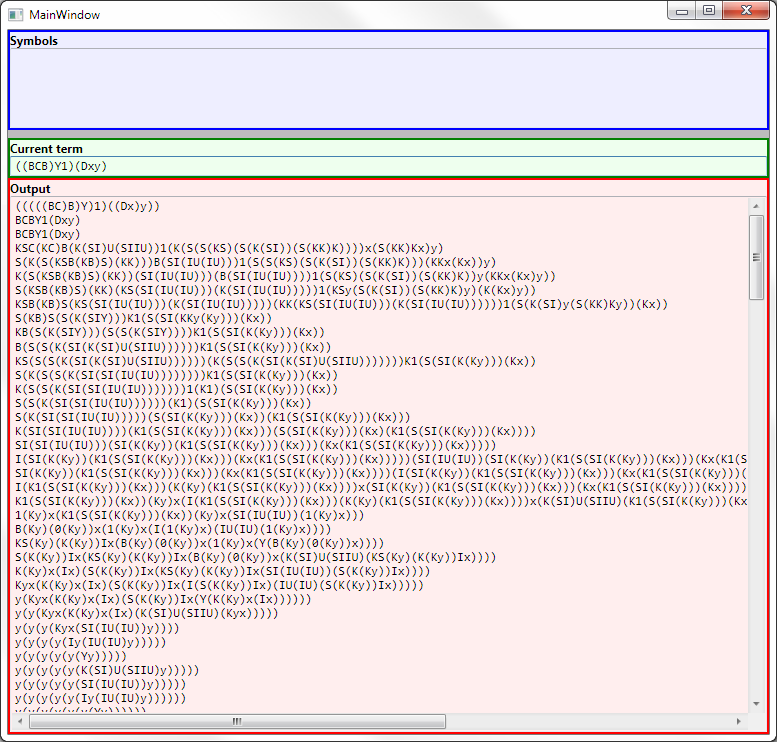
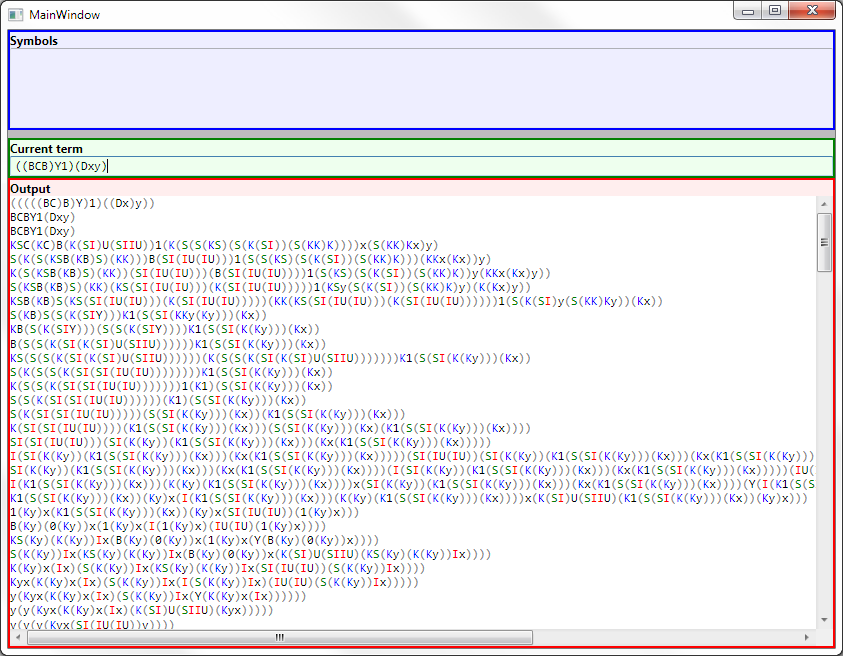
Managed to get half decent syntax highlighting for the output.
Layered four different TextBlocks with different font colors and transparent backgrounds.

diff --git a/WPF_FrontEnd/MainWindow.xaml b/WPF_FrontEnd/MainWindow.xaml
@@ -1,6 +1,7 @@
 <Window x:Class="WPF_FrontEnd.MainWindow"
         xmlns="http://schemas.microsoft.com/winfx/2006/xaml/presentation"
         xmlns:x="http://schemas.microsoft.com/winfx/2006/xaml"
+        xmlns:ns="clr-namespace:WPF_FrontEnd"
         Title="MainWindow" Height="350" Width="525">
     <Grid>
         <Grid.RowDefinitions>
@@ -51,10 +52,11 @@
                     <RowDefinition Height="*" />
                 </Grid.RowDefinitions>
                 <TextBlock Grid.Row="0" Text="Output" FontWeight="Bold" Background="#FFffeeee"/>
-                <TextBox Grid.Row="1" Name="Output"
+                <ns:ColoredCombinatorTextBlock Grid.Row="1" x:Name="Output"/>
+                <!--TextBox Grid.Row="1" Name="Output"
                          HorizontalScrollBarVisibility="Auto" VerticalScrollBarVisibility="Auto"
                          Background="#FFffeeee" IsReadOnly="True"
-                         FontFamily="Consolas"/>
+                         FontFamily="Consolas"/-->
             </Grid>
         </Border>
 

diff --git a/WPF_FrontEnd/ColoredCombinatorTextBlock.xaml b/WPF_FrontEnd/ColoredCombinatorTextBlock.xaml
@@ -1,0 +1,15 @@
+<UserControl x:Class="WPF_FrontEnd.ColoredCombinatorTextBlock"
+             xmlns="http://schemas.microsoft.com/winfx/2006/xaml/presentation"
+             xmlns:x="http://schemas.microsoft.com/winfx/2006/xaml"
+             xmlns:mc="http://schemas.openxmlformats.org/markup-compatibility/2006" 
+             xmlns:d="http://schemas.microsoft.com/expression/blend/2008" 
+             mc:Ignorable="d" 
+             d:DesignHeight="300" d:DesignWidth="300">
+    <Grid>
+        <ScrollViewer HorizontalScrollBarVisibility="Auto" VerticalScrollBarVisibility="Auto">
+            <Grid Name="ContentSpace">
+                
+            </Grid>
+        </ScrollViewer>
+    </Grid>
+</UserControl>

diff --git a/WPF_FrontEnd/ColoredCombinatorTextBlock.xaml.cs b/WPF_FrontEnd/ColoredCombinatorTextBlock.xaml.cs
@@ -1,0 +1,122 @@
+using System;
+using System.Collections.Generic;
+using System.Linq;
+using System.Text;
+using System.Windows;
+using System.Windows.Controls;
+using System.Windows.Data;
+using System.Windows.Documents;
+using System.Windows.Input;
+using System.Windows.Media;
+using System.Windows.Media.Imaging;
+using System.Windows.Navigation;
+using System.Windows.Shapes;
+
+namespace WPF_FrontEnd
+{
+    /// <summary>
+    /// Interaction logic for ColoredCombinatorTextBlock.xaml
+    /// </summary>
+    public partial class ColoredCombinatorTextBlock : UserControl
+    {
+        public ColoredCombinatorTextBlock()
+        {
+            InitializeComponent();
+        }
+
+        class ColorScheme
+        {
+            public string glyphs;
+            public StringBuilder text = new StringBuilder();
+            public TextBlock textBlock;
+        }
+
+        List<ColorScheme> _colorSchemes = new List<ColorScheme>();
+        ColorScheme _defaultScheme;
+
+        public void InitializeColorScheme()
+        {
+            Func<string, Brush, ColorScheme> makeColorScheme = (str, brush) =>
+                {
+                    var tb = new TextBlock();
+                    tb.Background = Brushes.Transparent;
+                    tb.Foreground = brush;
+                    tb.FontFamily = new FontFamily("Consolas");
+                    return new ColorScheme()
+                    {
+                        glyphs = str,
+                        textBlock = tb
+                    };
+                };
+
+            _colorSchemes.Add(makeColorScheme("()", Brushes.Gray));
+            _colorSchemes.Add(makeColorScheme("S", Brushes.Green));
+            _colorSchemes.Add(makeColorScheme("K", Brushes.Blue));
+            _colorSchemes.Add(makeColorScheme("I", Brushes.Red));
+            _defaultScheme = makeColorScheme("", Brushes.Black);
+            _defaultScheme.textBlock.Background = Brushes.White;
+
+            ContentSpace.Children.Add(_defaultScheme.textBlock);
+            foreach (var scheme in _colorSchemes)
+            {
+                ContentSpace.Children.Add(scheme.textBlock);
+            }
+        }
+
+        private string _text;
+        public string Text
+        {
+            get
+            {
+                return _text;
+            }
+            set
+            {
+                _text = value;
+
+                // First clear all the text.
+                foreach (var scheme in _colorSchemes)
+                    scheme.text.Clear();
+                _defaultScheme.text.Clear();
+
+                foreach (char c in _text)
+                {
+                    bool found = false;
+                    foreach (var scheme in _colorSchemes)
+                    {
+                        if (scheme.glyphs.Contains(c))
+                        {
+                            scheme.text.Append(c);
+                            found = true;
+                        }
+                        else if (Char.IsControl(c))
+                        {
+                            scheme.text.Append(c);
+                        }
+                        else
+                        {
+                            scheme.text.Append(' ');
+                        }
+                    }
+
+                    if (!found)
+                        _defaultScheme.text.Append(c);
+                    else if (Char.IsControl(c))
+                    {
+                        _defaultScheme.text.Append(c);
+                    }
+                    else
+                    {
+                        _defaultScheme.text.Append(' ');
+                    }
+                }
+
+                foreach (var scheme in _colorSchemes)
+                {
+                    scheme.textBlock.Text = scheme.text.ToString();
+                }
+                _defaultScheme.textBlock.Text = _defaultScheme.text.ToString();
+            }
+        }
+    }
+}

diff --git a/WPF_FrontEnd/MainWindow.xaml.cs b/WPF_FrontEnd/MainWindow.xaml.cs
@@ -24,6 +24,7 @@ namespace WPF_FrontEnd
         public MainWindow()
         {
             InitializeComponent();
+            Output.InitializeColorScheme();
         }
 
         private void CurrentTerm_TextChanged(object sender, TextChangedEventArgs e)
